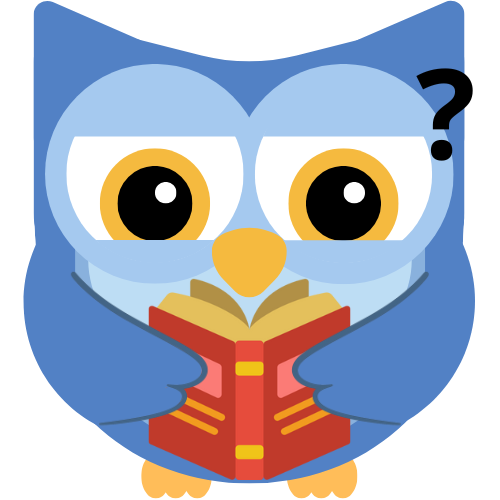
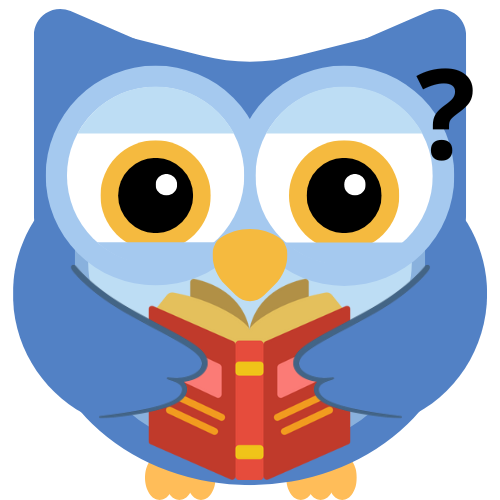
Reestructuracion visual general - Cambio del diseño del buho - Cambios y mejoras en header y scroll bar - Cambios de estilos varios, globales y puntuales

diff --git a/src/app/features/auth/inicio-sesion/inicio-sesion.component.css b/src/app/features/auth/inicio-sesion/inicio-sesion.component.css
@@ -1,22 +1,41 @@
-*{
-    border: 1px solid transparent;
+.seccion-inicio-de-sesion .link-volver {
+    position: absolute;
+    top: 20px;
+    left: 20px;
+    color: white;
+    font-size: 16px;
+    text-decoration: none;
+    transition: 0.3s ease;
+}
+
+.seccion-inicio-de-sesion .link-volver i {
+    margin-right: 5px;
+    color: white;
+}
+
+.seccion-inicio-de-sesion .link-volver:hover,
+.seccion-inicio-de-sesion .link-volver:hover i {
+    text-decoration: none;
+    color: var(--color-main);
+    transition: 0.3s ease;
 }
 
 .link-volver {
     position: absolute;
     top: 20px;
     left: 20px;
-    color: var(--color-contenido);
+    color: white;
     font-size: 16px;
     text-decoration: none;
     transition: 0.3s ease;
 }
 
-.link-volver i {
+.seccion-inicio-de-sesion .link-volver i {
     margin-right: 5px;
+    color: white;
 }
 
-.link-volver:hover {
+.seccion-inicio-de-sesion .link-volver:hover {
     text-decoration: none;
     color: var(--color-main);
     transition: 0.3s ease;
@@ -31,14 +50,13 @@
     background-size: cover;
     background-position: center;
     background-attachment: fixed;
-    min-height: 100vh; /* Cambiamos height por min-height */
-    width: 100%; /* Aseguramos que ocupe todo el ancho */
-    overflow-y: auto; /* Permitimos scroll vertical si es necesario */
+    min-height: 100vh; 
+    width: 100%;
+    overflow-y: auto; 
 }
 
 h3 {
     font-size: 24px;
-    color: var(--color-general-text);
     text-align: center;
     font-weight: 600;
     margin-bottom: 20px;
@@ -61,7 +79,7 @@ p{
     margin-top: 10px;
 }
 
-a {
+.sign-in-form a {
     color: var(--color-main);
     text-decoration: none;
     font-weight: 400;
@@ -100,7 +118,6 @@ input[type="password"]:focus {
 }
 
 label {
-    color: var(--color-general-text);
     font-weight: 600;
     margin-left: 10px;
     margin-top: 20px;

diff --git a/src/app/routes/landing/landing.component.css b/src/app/routes/landing/landing.component.css
@@ -1,7 +1,5 @@
 #logo {
-    float: right;
-    max-width: 650px;    
-    height: auto;
+    max-width: 92%;    
     object-fit: contain;
 }
 
@@ -25,6 +23,10 @@
     height: 100vh;
     padding-left: 50px;
     padding-right: 50px;
+    max-width: 100%;
+    max-height: 100%;
+    overflow: hidden;
+    position: relative;
 }
 
 
@@ -41,6 +43,8 @@
     text-align: right;
     height: 100vh;
     padding-top: var(--header-size);
+    overflow: hidden;
+    position: relative;
 }
 
 button {
@@ -54,7 +58,7 @@ button {
     font-size: 16px;
     margin-top: 20px;
     cursor: pointer;
-    border-radius: 5px;
+    border-radius: var(--border-radius);
     transition: 0.3s ease;
 }
 
@@ -84,15 +88,17 @@ span {
 }
 
 #logo {
-    animation: slide-in 0.6s ease-in-out forwards;
+    animation: slide-in 0.5s ease-in-out forwards;
 }
 
 @keyframes slide-in {
     from {
-        transform: translateX(70%);
+        opacity: 0.6;
+        transform: translateX(33px);
     }
     to {
-        transform: translateX(0);
+        opacity: 1;
+        transform: translateX(3px);
     }
 }
 

diff --git a/src/app/features/auth/registro/registro.component.css b/src/app/features/auth/registro/registro.component.css
@@ -1,22 +1,20 @@
-*{
-    border: 1px solid transparent;
-}
-
-.link-volver {
+.seccion-registro .link-volver {
     position: absolute;
     top: 20px;
     left: 20px;
-    color: var(--color-contenido);
+    color: white;
     font-size: 16px;
     text-decoration: none;
     transition: 0.3s ease;
 }
 
-.link-volver i {
+.seccion-registro .link-volver i {
     margin-right: 5px;
+    color: white;
 }
 
-.link-volver:hover {
+.seccion-registro .link-volver:hover,
+.seccion-registro .link-volver:hover i {
     text-decoration: none;
     color: var(--color-main);
     transition: 0.3s ease;
@@ -38,7 +36,6 @@
 
 h3 {
     font-size: 24px;
-    color: var(--color-general-text);
     text-align: center;
     font-weight: 600;
     margin-bottom: 20px;
@@ -61,7 +58,7 @@ p{
     margin-top: 10px;
 }
 
-a {
+.sign-in-form a {
     color: var(--color-main);
     text-decoration: none;
     font-weight: 400;
@@ -101,7 +98,6 @@ input[type="password"]:focus {
 }
 
 label {
-    color: var(--color-general-text);
     font-weight: 600;
     margin-left: 10px;
     margin-top: 20px;

diff --git a/src/styles.css b/src/styles.css
@@ -1,4 +1,6 @@
-/* You can add global styles to this file, and also import other style files */
+@import url("https://fonts.googleapis.com/css2?family=Poppins:ital,wght@0,100;0,200;0,300;0,400;0,500;0,600;0,700;0,800;0,900;1,100;1,200;1,300;1,400;1,500;1,600;1,700;1,800;1,900&display=swap");
+@import url('https://fonts.googleapis.com/css2?family=Bagel+Fat+One&display=swap');
+
 :root {
   /*-----Colores globales-----*/
   --color-main: #588bd2;
@@ -7,7 +9,10 @@
   --color-accent: #ffbd59;
   /*#edf4fe*/
   --color-background: #edf2fe;
+  /*
   --color-general-text: rgb(37, 57, 62);
+  */
+  --color-general-text: hwb(244 20% 73%);
   --color-disabled: #bdbdbd;
 
   --color-contenido: #fefefe;
@@ -38,6 +43,7 @@
 
 * {
   /*Configuración global de fuente y texto*/
-  font-family: 'Poppins', 'Gill Sans', 'Gill Sans MT', Calibri, 'Trebuchet MS', sans-serif;
-  color: var(--color-text);
+  font-family: 'Poppins', sans-serif;
+  color: var(--color-general-text);
+  scrollbar-color: var(--color-main) var(--color-headerfooter);
 }

diff --git a/src/app/routes/landing/landing.component.html b/src/app/routes/landing/landing.component.html
@@ -4,10 +4,10 @@
             <h1 hidden><span>OWL</span></h1>
             <h1>Toda tu información de inversión en un solo lugar</h1>
             <h2>Comparación de Fondos de Inversión Colectiva con datos actualizados</h2>
-            <button routerLink="/explorar-fondos">Conocer m&aacute;s <i class="bi bi-arrow-right"></i></button>
+            <button routerLink="/explorar-fondos">Conocer m&aacute;s<i class="bi bi-arrow-right-short"></i></button>
         </div>
         <div class="der">
-            <img id="logo" src="assets/images/OwlLandingBranch.png" alt="Logo" />
+            <img id="logo" src="assets/images/OwlLandingBranch2.png" alt="Logo" />
         </div>
     </div>
     <div class="seccion-informacion">

diff --git a/src/index.html b/src/index.html
@@ -6,8 +6,6 @@
   <base href="/">
   <meta name="viewport" content="width=device-width, initial-scale=1">
   <link rel="icon" type="image/x-icon" href="favicon.ico">
-  <link href="https://fonts.googleapis.com/css2?family=Poppins:ital,wght@0,100;0,200;0,300;0,400;0,500;0,600;0,700;0,800;0,900;1,100;1,200;1,300;1,400;1,500;1,600;1,700;1,800;1,900&display=swap" rel="stylesheet">
-  <link href="https://fonts.googleapis.com/css2?family=Bagel+Fat+One&display=swap" rel="stylesheet">
 </head>
 <body>
   <app-root></app-root>

diff --git a/src/app/layout/header/header.component.html b/src/app/layout/header/header.component.html
@@ -1,5 +1,5 @@
 <header id="header" class="header">
-    <img id="logo" routerLink="/" src="assets/images/owl.png" alt="Logo" />
+    <img id="logo" routerLink="/" src="assets/images/OwlLogo.png" alt="Logo" />
     <div class="nav-usuario" >
         <button routerLink="/" routerLinkActive="router-link-active" [routerLinkActiveOptions]="{exact: true}">Inicio</button>
         <button routerLink="/explorar-fondos" routerLinkActive="router-link-active">Explorar Fondos</button>

diff --git a/src/app/features/usuario/seleccion-tipo-inversion/seleccion-tipo-inversion.component.css b/src/app/features/usuario/seleccion-tipo-inversion/seleccion-tipo-inversion.component.css
@@ -10,7 +10,6 @@ a {
 
 h4 {
     font-size: var(--large-size);
-    color: var(--color-general-text);
     text-align: center;
     margin-bottom: 6rem;
     margin-top: 4rem;
@@ -26,7 +25,6 @@ h4 {
 .seleccion  {
     background-color: var(--color-contenido);   
     border-radius: var(--border-radius);
-    color: var(--color-general-text);
     width: 75vh;
     margin: 1.2rem;
     text-align: center; 

diff --git a/src/app/features/usuario/cuestionario/cuestionario.component.html b/src/app/features/usuario/cuestionario/cuestionario.component.html
@@ -3,6 +3,7 @@
         <img id="logo" src="assets/images/OwlSerio.png" alt="Logo" />
     </div>
     <section class="cuestionario">
+        <h1 hidden class="color-alt">Perfil de Riesgo</h1>
         <h1>Perfil de Riesgo</h1>
 
         <div class="pregunta-paginas" [ngSwitch]="currentPage">

diff --git a/src/app/features/usuario/cuestionario/cuestionario.component.css b/src/app/features/usuario/cuestionario/cuestionario.component.css
@@ -1,3 +1,7 @@
+.color-alt {
+    
+}
+
 .container {
     display: flex;
     flex-direction: column;
@@ -60,7 +64,6 @@ span {
 }
 
 .pregunta-texto {
-    color: var(--color-general-text);
     margin-top: 20px;
     margin-bottom: 60px;
     font-size: 17px;

diff --git a/src/app/layout/header/header.component.css b/src/app/layout/header/header.component.css
@@ -52,6 +52,7 @@ nav a:hover{
   transition: 0.2s ease;
   padding-left: 15px;
   padding-right: 15px;
+  font-weight: 400;
 }
 
 .nav-usuario button:hover {

diff --git a/src/app/features/FICs/explorar-fondos/explorar-fondos.component.css b/src/app/features/FICs/explorar-fondos/explorar-fondos.component.css
@@ -18,7 +18,6 @@
 }
 
 h5 {
-    color: var(--color-general-text);
     font-weight: 600;
     font-size: 1.67rem;
     margin: 0px;
